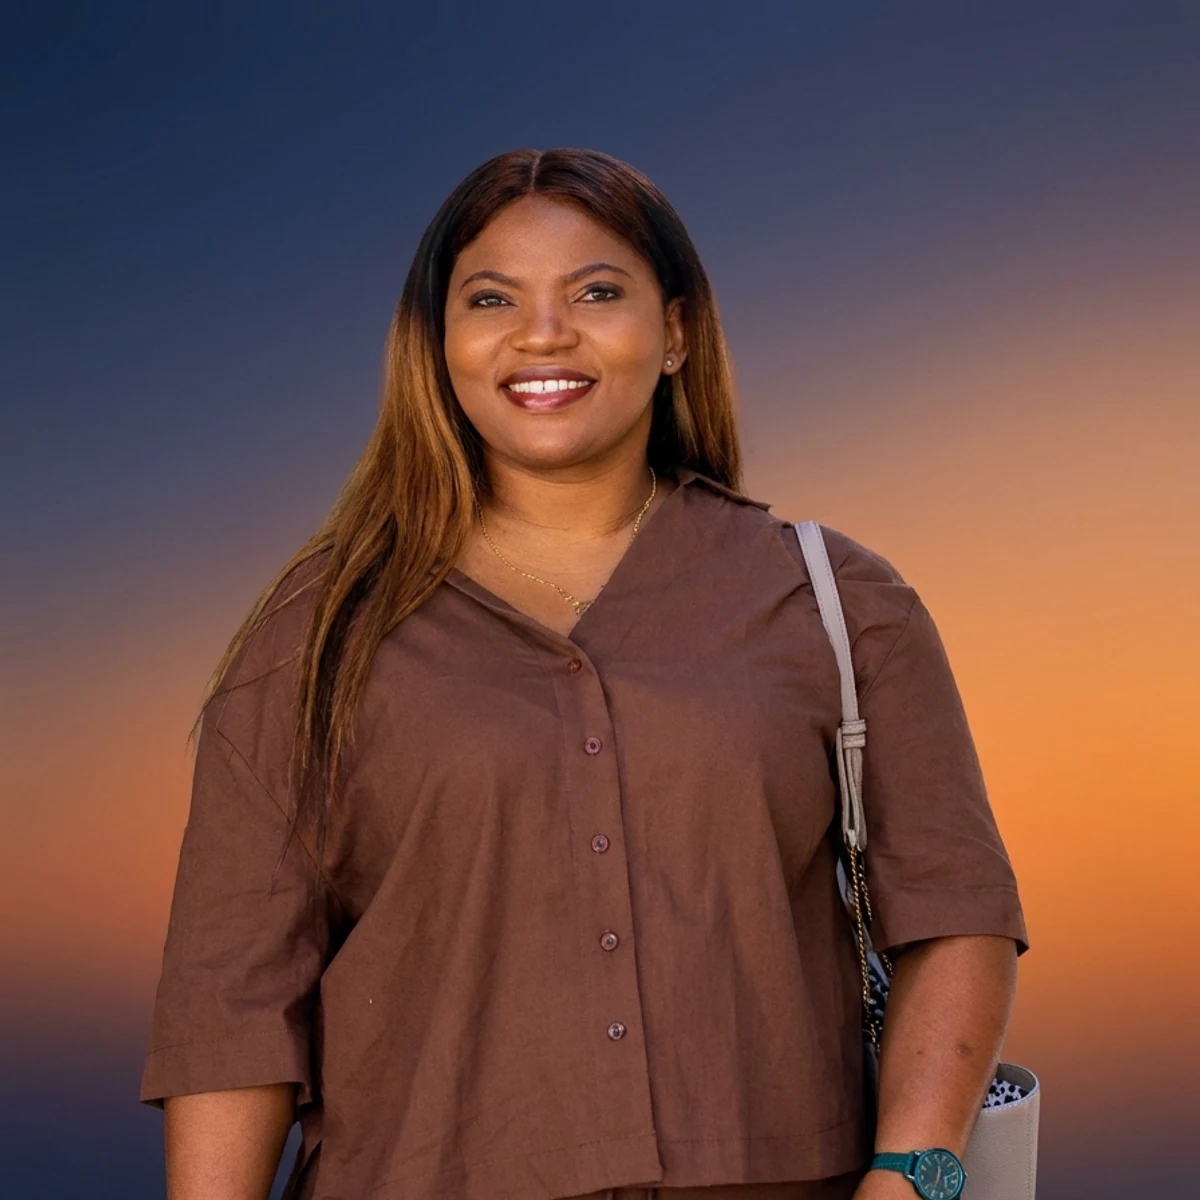
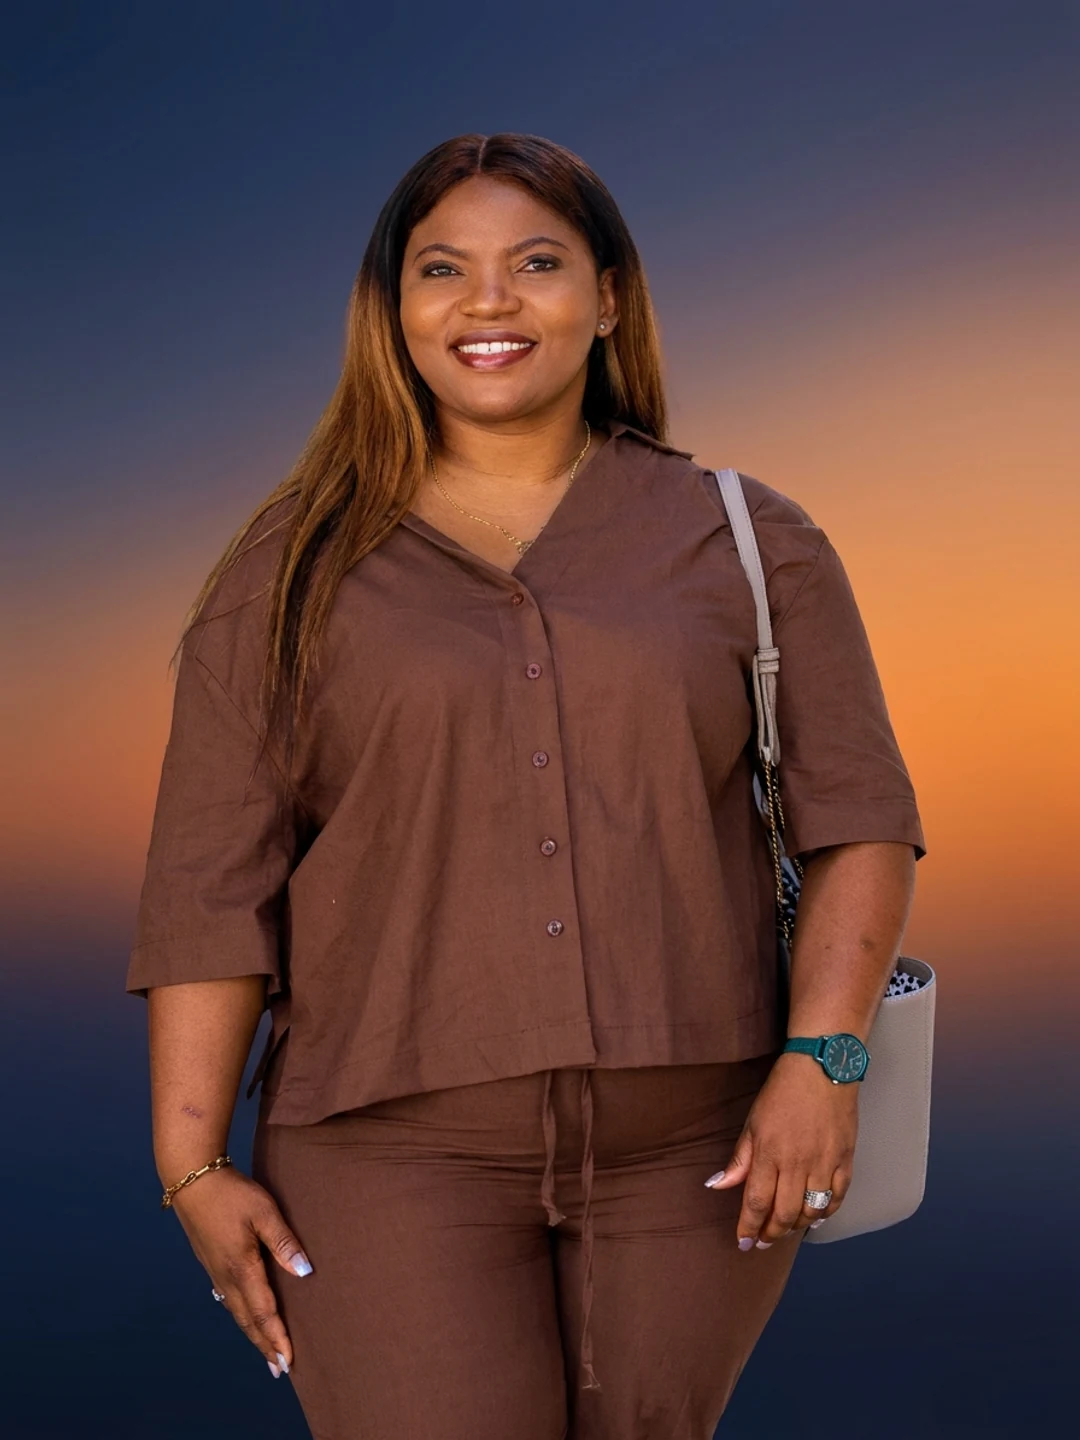
fix(team): switch portraits from 1:1 square to 3:4 ratio
- Sharp: 1200x1200 (square, attention crop) -> 1080x1440 (3:4, top crop)
- TeamSection: aspectRatio 1/1 -> 3/4, keeps object-cover object-top
- No more face cropping; full head + shoulders now visible in frame
- Linus:   62.7KB -> 58.0KB
- Patience: 71.9KB -> 83.6KB (slight bump due to taller frame, still -85%)

diff --git a/src/components/TeamSection.tsx b/src/components/TeamSection.tsx
@@ -11,7 +11,7 @@ import { Icon } from '@/lib/icons';
  *  - Mobile:  single column stack.
  *
  * Each card has:
- *  - Square (1:1) photo, object-cover object-top, sharp corners.
+ *  - Portrait (3:4) photo, object-cover object-top, sharp corners.
  *  - Name (display bold navy), Title (accent orange medium), Credentials (italic gray small).
  *  - Bio paragraph (gray-700 body).
  *  - Email + WhatsApp contact links with icons, hover underline, WhatsApp opens new tab.
@@ -56,8 +56,8 @@ export function TeamSection() {
                   boxShadow: '0 4px 20px -8px rgba(27,42,74,0.12)',
                 }}
               >
-                {/* Square photo */}
-                <div className="relative w-full overflow-hidden" style={{ aspectRatio: '1 / 1' }}>
+                {/* Portrait photo (3:4) */}
+                <div className="relative w-full overflow-hidden" style={{ aspectRatio: '3 / 4' }}>
                   <Image
                     src={member.image}
                     alt={member.imageAlt}